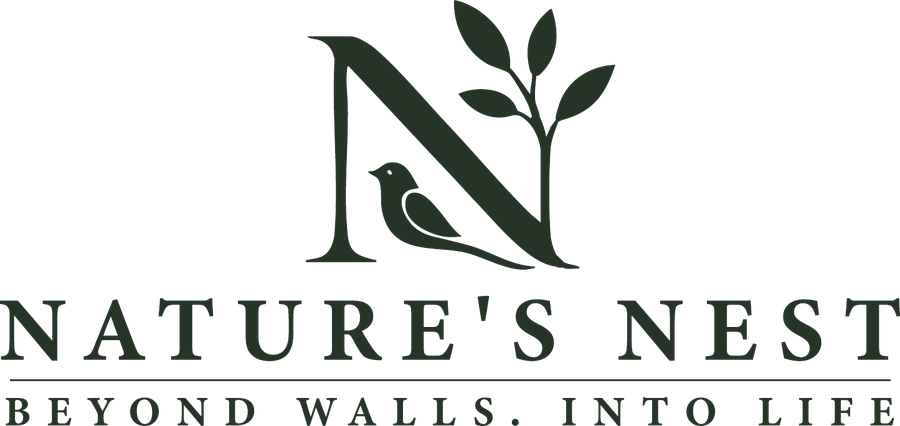
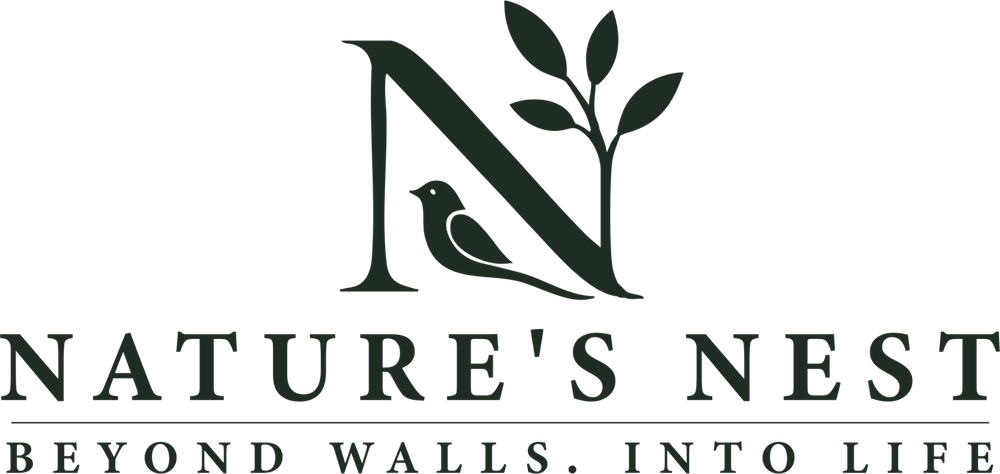
Menu, loader, directors, contact and social updates
- Menu and footer: "Our Project" renamed "Nature's Nest"; Amenities added
- Loader and page-transition curtain use the Nature's Nest logo
  (preloaded so it shows on first paint)
- Home: Download Brochure button beside Book a Site Visit; floor-plan card
  no longer shows the home count; amenity list shows photos on phones
- Directors Yash Parab and Aarti Parab added beside the chairman (home
  and About)
- WhatsApp button now opens 9036534528
- Footer phone numbers separated with " / "
- Instagram linked; Facebook, LinkedIn and X icons removed

Claude-Session: https://claude.ai/code/session_01LEQm2ouqqd2gpKNnPow7Ev

diff --git a/index.html b/index.html
@@ -8,6 +8,8 @@
   <link rel="preconnect" href="https://fonts.googleapis.com">
   <link rel="preconnect" href="https://fonts.gstatic.com" crossorigin>
   <link href="https://fonts.googleapis.com/css2?family=Hanken+Grotesk:wght@300;400;500;700&family=Instrument+Serif:ital@0;1&family=Inter:wght@400;500&display=swap" rel="stylesheet">
+  <link rel="preload" as="image" href="images/brand/natures-nest-mark-light.png">
+  <link rel="preload" as="image" href="images/brand/natures-nest-word-light.png">
   <link rel="icon" type="image/png" href="images/brand/favicon.png">
   <link rel="apple-touch-icon" href="images/brand/apple-touch-icon.png">
   <link rel="stylesheet" href="css/style.css">
@@ -15,9 +17,8 @@
 <body>
   <!-- Loader / page curtain -->
   <div class="loader" aria-hidden="true">
-    <div class="loader__mark"><img src="images/brand/logo-mark.png" alt=""></div>
-    <img class="loader__word" src="images/brand/logo-word-light.png" alt="">
-    <p class="loader__name">Spaces for a better tomorrow</p>
+    <div class="loader__mark loader__mark--nn"><img src="images/brand/natures-nest-mark-light.png" alt=""></div>
+    <img class="loader__word loader__word--nn" src="images/brand/natures-nest-word-light.png" alt="">
     <p class="loader__count"><span>0</span>%</p>
   </div>
   <div class="cursor" aria-hidden="true"><span class="cursor__dot"></span><span class="cursor__ring"><b class="cursor__label"></b></span></div>
@@ -85,26 +86,24 @@
       <nav class="menu__col menu__col--nav" aria-label="Main">
         <a href="index.html" class="js-menu-link" style="--i:0">Home</a>
         <a href="about.html" class="js-menu-link" style="--i:1">About Us</a>
-        <a href="project.html" class="js-menu-link" style="--i:2">Our Project</a>
+        <a href="project.html" class="js-menu-link" style="--i:2">Nature’s Nest</a>
         <a href="project.html#floor-plans" class="js-menu-link" style="--i:3">Floor Plans</a>
-        <a href="project.html#gallery" class="js-menu-link" style="--i:4">Gallery</a>
-        <a href="project.html#enquire" class="js-menu-link" style="--i:5">Contact</a>
+        <a href="project.html#amenities" class="js-menu-link" style="--i:4">Amenities</a>
+        <a href="project.html#gallery" class="js-menu-link" style="--i:5">Gallery</a>
+        <a href="project.html#enquire" class="js-menu-link" style="--i:6">Contact</a>
       </nav>
       <div class="menu__col menu__col--info">
         <div class="menu__social">
           <p class="label">SOCIAL</p>
           <div class="socials">
-            <a href="#" aria-label="Instagram"><svg><use href="#i-instagram"/></svg></a>
-            <a href="#" aria-label="Facebook"><svg><use href="#i-facebook"/></svg></a>
-            <a href="#" aria-label="LinkedIn"><svg><use href="#i-linkedin"/></svg></a>
-            <a href="#" aria-label="X"><svg><use href="#i-x"/></svg></a>
+            <a href="https://www.instagram.com/vedantdevelopersandbuilders/" target="_blank" rel="noopener" aria-label="Instagram"><svg><use href="#i-instagram"/></svg></a>
             <a href="#" class="js-wa" aria-label="WhatsApp"><svg><use href="#i-whatsapp"/></svg></a>
           </div>
         </div>
         <div class="menu__contact">
           <p class="label">CONTACT US</p>
           <p>CTS-1594, Sky Avenue Street, Chougulewadi,<br>Dwarka Nagar, Tilakwadi, Belagavi 590006</p>
-          <p><a href="tel:+919660699108">96606 99108</a> · <a href="tel:+919108732484">91087 32484</a><br>www.vedantdevelopers.in</p>
+          <p><a href="tel:+919660699108">96606 99108</a> / <a href="tel:+919108732484">91087 32484</a><br>www.vedantdevelopers.in</p>
         </div>
       </div>
     </div>
@@ -139,6 +138,7 @@
           <div class="rise__cta">
             <a href="project.html" class="pill pill--cream magnetic" data-cursor="Explore"><svg class="pill__icon"><use href="#i-spark"/></svg><span>Explore the Project</span></a>
             <a href="project.html#enquire" class="pill pill--glass magnetic"><svg class="pill__icon"><use href="#i-arrow"/></svg><span>Book a Site Visit</span></a>
+            <a href="brochure/Vedant-Natures-Nest-Brochure.pdf" class="pill pill--glass magnetic" target="_blank" rel="noopener" download data-cursor="Download"><svg class="pill__icon"><use href="#i-download"/></svg><span>Download Brochure</span></a>
           </div>
         </div>
       </div>
@@ -273,8 +273,8 @@
           </a>
           <a href="project.html#floor-plans" class="hcard hcard--plan" data-cursor="Floor plans">
             <div class="hcard__img"><img src="images/plans/flats/floor-typical.jpg" alt="Typical floor plan" loading="lazy"></div>
-            <div class="hcard__meta"><h3>49 homes</h3><span>G+7 · 30 guntas</span></div>
-            <p>Seven homes on every floor across three wings, with an amenity terrace on top.</p>
+            <div class="hcard__meta"><h3>Floor plans</h3><span>Three wings · G+7</span></div>
+            <p>Explore every floor and flat layout, with an amenity terrace on top.</p>
           </a>
           <div class="hpanel hpanel--end">
             <p class="hpanel__big">Your new life,<br><em>elevated.</em></p>
@@ -338,14 +338,14 @@
         <h2 class="display" data-split>Designed for living</h2>
       </div>
       <ul class="alist__rows">
-        <li data-img="images/booklet/clubhouse.jpg"><span class="alist__name">Clubhouse</span><span class="alist__for">Everyone</span><svg><use href="#i-arrow"/></svg></li>
-        <li data-img="images/booklet/gym.jpg"><span class="alist__name">Gym</span><span class="alist__for">Parents</span><svg><use href="#i-arrow"/></svg></li>
-        <li data-img="images/booklet/yoga.jpg"><span class="alist__name">Yoga</span><span class="alist__for">Seniors · Parents</span><svg><use href="#i-arrow"/></svg></li>
-        <li data-img="images/booklet/senior-citizen.jpg"><span class="alist__name">Senior citizen area</span><span class="alist__for">Seniors</span><svg><use href="#i-arrow"/></svg></li>
-        <li data-img="images/booklet/kids-play.jpg"><span class="alist__name">Children’s play area</span><span class="alist__for">Children</span><svg><use href="#i-arrow"/></svg></li>
-        <li data-img="images/booklet/gazebo.jpg"><span class="alist__name">Gazebo</span><span class="alist__for">Everyone</span><svg><use href="#i-arrow"/></svg></li>
-        <li data-img="images/booklet/sky-deck.jpg"><span class="alist__name">Sky observatory deck</span><span class="alist__for">Everyone</span><svg><use href="#i-arrow"/></svg></li>
-        <li data-img="images/booklet/open-air-theatre.jpg"><span class="alist__name">Open-air theatre</span><span class="alist__for">Neighbours · Children</span><svg><use href="#i-arrow"/></svg></li>
+        <li data-img="images/booklet/clubhouse.jpg"><img class="alist__thumb" src="images/booklet/clubhouse.jpg" alt="" loading="lazy"><span class="alist__name">Clubhouse</span><span class="alist__for">Everyone</span><svg><use href="#i-arrow"/></svg></li>
+        <li data-img="images/booklet/gym.jpg"><img class="alist__thumb" src="images/booklet/gym.jpg" alt="" loading="lazy"><span class="alist__name">Gym</span><span class="alist__for">Parents</span><svg><use href="#i-arrow"/></svg></li>
+        <li data-img="images/booklet/yoga.jpg"><img class="alist__thumb" src="images/booklet/yoga.jpg" alt="" loading="lazy"><span class="alist__name">Yoga</span><span class="alist__for">Seniors · Parents</span><svg><use href="#i-arrow"/></svg></li>
+        <li data-img="images/booklet/senior-citizen.jpg"><img class="alist__thumb" src="images/booklet/senior-citizen.jpg" alt="" loading="lazy"><span class="alist__name">Senior citizen area</span><span class="alist__for">Seniors</span><svg><use href="#i-arrow"/></svg></li>
+        <li data-img="images/booklet/kids-play.jpg"><img class="alist__thumb" src="images/booklet/kids-play.jpg" alt="" loading="lazy"><span class="alist__name">Children’s play area</span><span class="alist__for">Children</span><svg><use href="#i-arrow"/></svg></li>
+        <li data-img="images/booklet/gazebo.jpg"><img class="alist__thumb" src="images/booklet/gazebo.jpg" alt="" loading="lazy"><span class="alist__name">Gazebo</span><span class="alist__for">Everyone</span><svg><use href="#i-arrow"/></svg></li>
+        <li data-img="images/booklet/sky-deck.jpg"><img class="alist__thumb" src="images/booklet/sky-deck.jpg" alt="" loading="lazy"><span class="alist__name">Sky observatory deck</span><span class="alist__for">Everyone</span><svg><use href="#i-arrow"/></svg></li>
+        <li data-img="images/booklet/open-air-theatre.jpg"><img class="alist__thumb" src="images/booklet/open-air-theatre.jpg" alt="" loading="lazy"><span class="alist__name">Open-air theatre</span><span class="alist__for">Neighbours · Children</span><svg><use href="#i-arrow"/></svg></li>
       </ul>
       <div class="alist__float" aria-hidden="true"><img alt=""></div>
       <a href="project.html#amenities" class="link-arrow">See all amenities <svg><use href="#i-arrow"/></svg></a>
@@ -392,8 +392,12 @@
         <div class="chair__text">
           <p class="chair__name">Mr. Pandhari Parab</p>
           <p class="chair__role">Founder &amp; Chairman</p>
-          <p class="chair__also">With co-founders <b>Yash Parab</b> and <b>Aarti Parab</b></p>
+          <p class="chair__also">With directors Yash Parab and Aarti Parab</p>
         </div>
+      </div>
+      <div class="directors" data-reveal>
+        <div class="director"><span class="director__ini">YP</span><div><p class="director__name">Yash Parab</p><p class="director__role">Director</p></div></div>
+        <div class="director"><span class="director__ini">AP</span><div><p class="director__name">Aarti Parab</p><p class="director__role">Director</p></div></div>
       </div>
     </section>
 
@@ -445,16 +449,14 @@
       <nav class="footer__box footer__nav" aria-label="Footer">
         <a href="index.html">Home</a>
         <a href="about.html">About Us</a>
-        <a href="project.html">Our Project</a>
+        <a href="project.html">Nature’s Nest</a>
+        <a href="project.html#amenities">Amenities</a>
         <a href="project.html#gallery">Gallery</a>
         <a href="project.html#enquire">Contact</a>
       </nav>
       <div class="footer__box footer__info">
         <div class="socials">
-          <a href="#" aria-label="Instagram"><svg><use href="#i-instagram"/></svg></a>
-          <a href="#" aria-label="Facebook"><svg><use href="#i-facebook"/></svg></a>
-          <a href="#" aria-label="LinkedIn"><svg><use href="#i-linkedin"/></svg></a>
-          <a href="#" aria-label="X"><svg><use href="#i-x"/></svg></a>
+          <a href="https://www.instagram.com/vedantdevelopersandbuilders/" target="_blank" rel="noopener" aria-label="Instagram"><svg><use href="#i-instagram"/></svg></a>
           <a href="#" class="js-wa" aria-label="WhatsApp"><svg><use href="#i-whatsapp"/></svg></a>
         </div>
         <div class="footer__cols">
@@ -469,8 +471,7 @@
         </div>
         <div class="footer__call">
           <p>Building Trust. Creating Futures.</p>
-          <a href="tel:+919660699108">96606 99108</a>
-          <a href="tel:+919108732484">91087 32484</a>
+          <p class="footer__phones"><a href="tel:+919660699108">96606 99108</a> <span aria-hidden="true">/</span> <a href="tel:+919108732484">91087 32484</a></p>
         </div>
       </div>
     </div>

diff --git a/about.html b/about.html
@@ -8,6 +8,8 @@
   <link rel="preconnect" href="https://fonts.googleapis.com">
   <link rel="preconnect" href="https://fonts.gstatic.com" crossorigin>
   <link href="https://fonts.googleapis.com/css2?family=Hanken+Grotesk:wght@300;400;500;700&family=Instrument+Serif:ital@0;1&family=Inter:wght@400;500&display=swap" rel="stylesheet">
+  <link rel="preload" as="image" href="images/brand/natures-nest-mark-light.png">
+  <link rel="preload" as="image" href="images/brand/natures-nest-word-light.png">
   <link rel="icon" type="image/png" href="images/brand/favicon.png">
   <link rel="apple-touch-icon" href="images/brand/apple-touch-icon.png">
   <link rel="stylesheet" href="css/style.css">
@@ -15,9 +17,8 @@
 <body>
   <!-- Loader / page curtain -->
   <div class="loader" aria-hidden="true">
-    <div class="loader__mark"><img src="images/brand/logo-mark.png" alt=""></div>
-    <img class="loader__word" src="images/brand/logo-word-light.png" alt="">
-    <p class="loader__name">Spaces for a better tomorrow</p>
+    <div class="loader__mark loader__mark--nn"><img src="images/brand/natures-nest-mark-light.png" alt=""></div>
+    <img class="loader__word loader__word--nn" src="images/brand/natures-nest-word-light.png" alt="">
     <p class="loader__count"><span>0</span>%</p>
   </div>
   <div class="cursor" aria-hidden="true"><span class="cursor__dot"></span><span class="cursor__ring"><b class="cursor__label"></b></span></div>
@@ -85,26 +86,24 @@
       <nav class="menu__col menu__col--nav" aria-label="Main">
         <a href="index.html" class="js-menu-link" style="--i:0">Home</a>
         <a href="about.html" class="js-menu-link" style="--i:1">About Us</a>
-        <a href="project.html" class="js-menu-link" style="--i:2">Our Project</a>
+        <a href="project.html" class="js-menu-link" style="--i:2">Nature’s Nest</a>
         <a href="project.html#floor-plans" class="js-menu-link" style="--i:3">Floor Plans</a>
-        <a href="project.html#gallery" class="js-menu-link" style="--i:4">Gallery</a>
-        <a href="project.html#enquire" class="js-menu-link" style="--i:5">Contact</a>
+        <a href="project.html#amenities" class="js-menu-link" style="--i:4">Amenities</a>
+        <a href="project.html#gallery" class="js-menu-link" style="--i:5">Gallery</a>
+        <a href="project.html#enquire" class="js-menu-link" style="--i:6">Contact</a>
       </nav>
       <div class="menu__col menu__col--info">
         <div class="menu__social">
           <p class="label">SOCIAL</p>
           <div class="socials">
-            <a href="#" aria-label="Instagram"><svg><use href="#i-instagram"/></svg></a>
-            <a href="#" aria-label="Facebook"><svg><use href="#i-facebook"/></svg></a>
-            <a href="#" aria-label="LinkedIn"><svg><use href="#i-linkedin"/></svg></a>
-            <a href="#" aria-label="X"><svg><use href="#i-x"/></svg></a>
+            <a href="https://www.instagram.com/vedantdevelopersandbuilders/" target="_blank" rel="noopener" aria-label="Instagram"><svg><use href="#i-instagram"/></svg></a>
             <a href="#" class="js-wa" aria-label="WhatsApp"><svg><use href="#i-whatsapp"/></svg></a>
           </div>
         </div>
         <div class="menu__contact">
           <p class="label">CONTACT US</p>
           <p>CTS-1594, Sky Avenue Street, Chougulewadi,<br>Dwarka Nagar, Tilakwadi, Belagavi 590006</p>
-          <p><a href="tel:+919660699108">96606 99108</a> · <a href="tel:+919108732484">91087 32484</a><br>www.vedantdevelopers.in</p>
+          <p><a href="tel:+919660699108">96606 99108</a> / <a href="tel:+919108732484">91087 32484</a><br>www.vedantdevelopers.in</p>
         </div>
       </div>
     </div>
@@ -138,8 +137,12 @@
         <div class="chair__text">
           <p class="chair__name">Mr. Pandhari Parab</p>
           <p class="chair__role">Founder &amp; Chairman</p>
-          <p class="chair__also">With co-founders <b>Yash Parab</b> and <b>Aarti Parab</b></p>
+          <p class="chair__also">With directors Yash Parab and Aarti Parab</p>
         </div>
+      </div>
+      <div class="directors" data-reveal>
+        <div class="director"><span class="director__ini">YP</span><div><p class="director__name">Yash Parab</p><p class="director__role">Director</p></div></div>
+        <div class="director"><span class="director__ini">AP</span><div><p class="director__name">Aarti Parab</p><p class="director__role">Director</p></div></div>
       </div>
       <div class="prose-split prose-split--flush">
         <div class="prose-split__label" data-reveal><svg><use href="#i-star"/></svg>Our journey</div>
@@ -246,16 +249,14 @@
       <nav class="footer__box footer__nav" aria-label="Footer">
         <a href="index.html">Home</a>
         <a href="about.html">About Us</a>
-        <a href="project.html">Our Project</a>
+        <a href="project.html">Nature’s Nest</a>
+        <a href="project.html#amenities">Amenities</a>
         <a href="project.html#gallery">Gallery</a>
         <a href="project.html#enquire">Contact</a>
       </nav>
       <div class="footer__box footer__info">
         <div class="socials">
-          <a href="#" aria-label="Instagram"><svg><use href="#i-instagram"/></svg></a>
-          <a href="#" aria-label="Facebook"><svg><use href="#i-facebook"/></svg></a>
-          <a href="#" aria-label="LinkedIn"><svg><use href="#i-linkedin"/></svg></a>
-          <a href="#" aria-label="X"><svg><use href="#i-x"/></svg></a>
+          <a href="https://www.instagram.com/vedantdevelopersandbuilders/" target="_blank" rel="noopener" aria-label="Instagram"><svg><use href="#i-instagram"/></svg></a>
           <a href="#" class="js-wa" aria-label="WhatsApp"><svg><use href="#i-whatsapp"/></svg></a>
         </div>
         <div class="footer__cols">
@@ -270,8 +271,7 @@
         </div>
         <div class="footer__call">
           <p>Building Trust. Creating Futures.</p>
-          <a href="tel:+919660699108">96606 99108</a>
-          <a href="tel:+919108732484">91087 32484</a>
+          <p class="footer__phones"><a href="tel:+919660699108">96606 99108</a> <span aria-hidden="true">/</span> <a href="tel:+919108732484">91087 32484</a></p>
         </div>
       </div>
     </div>

diff --git a/project.html b/project.html
@@ -8,6 +8,8 @@
   <link rel="preconnect" href="https://fonts.googleapis.com">
   <link rel="preconnect" href="https://fonts.gstatic.com" crossorigin>
   <link href="https://fonts.googleapis.com/css2?family=Hanken+Grotesk:wght@300;400;500;700&family=Instrument+Serif:ital@0;1&family=Inter:wght@400;500&display=swap" rel="stylesheet">
+  <link rel="preload" as="image" href="images/brand/natures-nest-mark-light.png">
+  <link rel="preload" as="image" href="images/brand/natures-nest-word-light.png">
   <link rel="icon" type="image/png" href="images/brand/favicon.png">
   <link rel="apple-touch-icon" href="images/brand/apple-touch-icon.png">
   <link rel="stylesheet" href="css/style.css">
@@ -15,9 +17,8 @@
 <body>
   <!-- Loader / page curtain -->
   <div class="loader" aria-hidden="true">
-    <div class="loader__mark"><img src="images/brand/logo-mark.png" alt=""></div>
-    <img class="loader__word" src="images/brand/logo-word-light.png" alt="">
-    <p class="loader__name">Spaces for a better tomorrow</p>
+    <div class="loader__mark loader__mark--nn"><img src="images/brand/natures-nest-mark-light.png" alt=""></div>
+    <img class="loader__word loader__word--nn" src="images/brand/natures-nest-word-light.png" alt="">
     <p class="loader__count"><span>0</span>%</p>
   </div>
   <div class="cursor" aria-hidden="true"><span class="cursor__dot"></span><span class="cursor__ring"><b class="cursor__label"></b></span></div>
@@ -85,26 +86,24 @@
       <nav class="menu__col menu__col--nav" aria-label="Main">
         <a href="index.html" class="js-menu-link" style="--i:0">Home</a>
         <a href="about.html" class="js-menu-link" style="--i:1">About Us</a>
-        <a href="project.html" class="js-menu-link" style="--i:2">Our Project</a>
+        <a href="project.html" class="js-menu-link" style="--i:2">Nature’s Nest</a>
         <a href="project.html#floor-plans" class="js-menu-link" style="--i:3">Floor Plans</a>
-        <a href="project.html#gallery" class="js-menu-link" style="--i:4">Gallery</a>
-        <a href="project.html#enquire" class="js-menu-link" style="--i:5">Contact</a>
+        <a href="project.html#amenities" class="js-menu-link" style="--i:4">Amenities</a>
+        <a href="project.html#gallery" class="js-menu-link" style="--i:5">Gallery</a>
+        <a href="project.html#enquire" class="js-menu-link" style="--i:6">Contact</a>
       </nav>
       <div class="menu__col menu__col--info">
         <div class="menu__social">
           <p class="label">SOCIAL</p>
           <div class="socials">
-            <a href="#" aria-label="Instagram"><svg><use href="#i-instagram"/></svg></a>
-            <a href="#" aria-label="Facebook"><svg><use href="#i-facebook"/></svg></a>
-            <a href="#" aria-label="LinkedIn"><svg><use href="#i-linkedin"/></svg></a>
-            <a href="#" aria-label="X"><svg><use href="#i-x"/></svg></a>
+            <a href="https://www.instagram.com/vedantdevelopersandbuilders/" target="_blank" rel="noopener" aria-label="Instagram"><svg><use href="#i-instagram"/></svg></a>
             <a href="#" class="js-wa" aria-label="WhatsApp"><svg><use href="#i-whatsapp"/></svg></a>
           </div>
         </div>
         <div class="menu__contact">
           <p class="label">CONTACT US</p>
           <p>CTS-1594, Sky Avenue Street, Chougulewadi,<br>Dwarka Nagar, Tilakwadi, Belagavi 590006</p>
-          <p><a href="tel:+919660699108">96606 99108</a> · <a href="tel:+919108732484">91087 32484</a><br>www.vedantdevelopers.in</p>
+          <p><a href="tel:+919660699108">96606 99108</a> / <a href="tel:+919108732484">91087 32484</a><br>www.vedantdevelopers.in</p>
         </div>
       </div>
     </div>
@@ -421,16 +420,14 @@
       <nav class="footer__box footer__nav" aria-label="Footer">
         <a href="index.html">Home</a>
         <a href="about.html">About Us</a>
-        <a href="project.html">Our Project</a>
+        <a href="project.html">Nature’s Nest</a>
+        <a href="project.html#amenities">Amenities</a>
         <a href="project.html#gallery">Gallery</a>
         <a href="project.html#enquire">Contact</a>
       </nav>
       <div class="footer__box footer__info">
         <div class="socials">
-          <a href="#" aria-label="Instagram"><svg><use href="#i-instagram"/></svg></a>
-          <a href="#" aria-label="Facebook"><svg><use href="#i-facebook"/></svg></a>
-          <a href="#" aria-label="LinkedIn"><svg><use href="#i-linkedin"/></svg></a>
-          <a href="#" aria-label="X"><svg><use href="#i-x"/></svg></a>
+          <a href="https://www.instagram.com/vedantdevelopersandbuilders/" target="_blank" rel="noopener" aria-label="Instagram"><svg><use href="#i-instagram"/></svg></a>
           <a href="#" class="js-wa" aria-label="WhatsApp"><svg><use href="#i-whatsapp"/></svg></a>
         </div>
         <div class="footer__cols">
@@ -445,8 +442,7 @@
         </div>
         <div class="footer__call">
           <p>Building Trust. Creating Futures.</p>
-          <a href="tel:+919660699108">96606 99108</a>
-          <a href="tel:+919108732484">91087 32484</a>
+          <p class="footer__phones"><a href="tel:+919660699108">96606 99108</a> <span aria-hidden="true">/</span> <a href="tel:+919108732484">91087 32484</a></p>
         </div>
       </div>
     </div>

diff --git a/css/style.css b/css/style.css
@@ -1728,3 +1728,35 @@ body.is-leaving .loader { clip-path: inset(0 0 0 0); transition-duration: .7s; }
   .fpoly.is-selected { animation: none !important; }
 }
 @media (min-width: 810px) { .fdrawer { top: 54px; max-height: calc(100% - 54px); } }
+
+/* Nature's Nest loader logo */
+.loader__mark--nn { width: clamp(120px, 13vw, 170px); }
+.loader__word--nn { width: clamp(220px, 24vw, 320px); }
+.loader.is-quick .loader__word--nn { display: block; }
+
+/* Directors */
+.directors { display: grid; grid-template-columns: 1fr 1fr; gap: 14px; margin-top: 14px; }
+.director { display: flex; align-items: center; gap: 16px; padding: 18px 20px; border-radius: 4px; background: var(--dark); color: var(--cream); transition: transform .5s var(--ease); }
+.director:hover { transform: translateY(-4px); }
+.director__ini { flex: none; width: 58px; height: 58px; border-radius: 50%; display: grid; place-items: center; border: 1px solid rgba(243, 197, 138, .45); font-family: var(--f-serif); font-style: italic; font-size: 26px; color: var(--glow); }
+.director__name { font-size: 19px; color: #fff; letter-spacing: -.01em; }
+.director__role { margin-top: 4px; font-size: 12px; letter-spacing: .16em; text-transform: uppercase; color: var(--glow); }
+.chair--about + .directors { margin: 14px var(--gutter) 0; max-width: 820px; }
+
+/* Footer phones */
+.footer__phones { margin-top: 10px; font-size: 28px; letter-spacing: -.6px; }
+.footer__phones a { margin-top: 0 !important; font-size: inherit !important; }
+.footer__phones span { margin: 0 6px; opacity: .5; }
+
+/* Amenity list thumbnails (phones only; desktop uses the floating preview) */
+.alist__thumb { display: none; }
+@media (max-width: 809px) {
+  .alist__rows li { grid-template-columns: 96px 1fr; grid-template-rows: auto auto; column-gap: 16px; row-gap: 4px; align-items: center; }
+  .alist__thumb { display: block; grid-row: 1 / span 2; width: 96px; height: 72px; object-fit: cover; border-radius: 4px; }
+  .alist__name { font-size: 22px; align-self: end; }
+  .alist__for { align-self: start; }
+  .directors { grid-template-columns: 1fr; }
+  .chair--about + .directors { margin: 14px 24px 0; }
+  .footer__phones { font-size: 22px; }
+}
+@media (min-width: 810px) { .founders2 .directors { grid-column: 2; margin-top: -40px; } }

diff --git a/js/main.js b/js/main.js
@@ -151,7 +151,7 @@
    ========================================================= */
 (() => {
   // Your WhatsApp number with country code, digits only (e.g. 919876543210)
-  const WHATSAPP_NUMBER = '919660699108';
+  const WHATSAPP_NUMBER = '919036534528';
   // Google Sheet web app URL (see google-sheet/README.md). Enquiries are added as rows in your sheet.
   const GOOGLE_SHEET_URL = 'https://script.google.com/macros/s/AKfycbzV_wKDRDPDC78u9eWCTyfiyc95N2C7xf4aM5RHN2HNif-r6qmszKUq6eR3QyF0o74B5g/exec';
 
